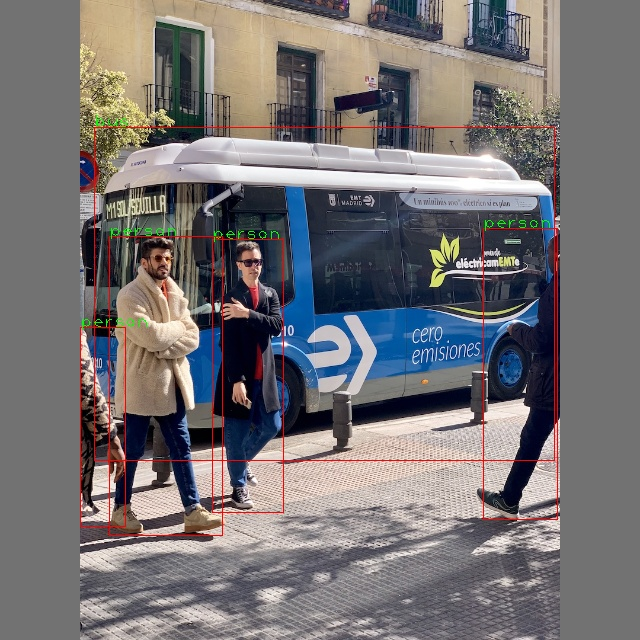
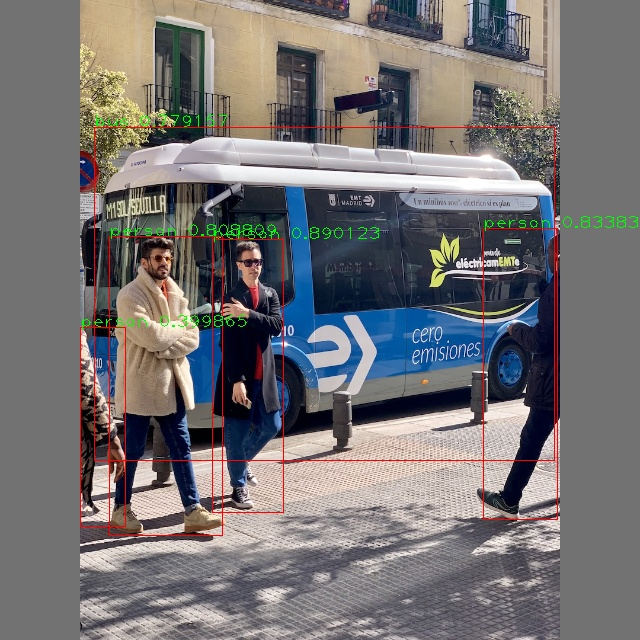
update test.cpp

diff --git a/src/test.cpp b/src/test.cpp
@@ -1,9 +1,74 @@
 #include <opencv2/imgproc.hpp>
 #include <opencv2/opencv.hpp>
+#include <opencv2/dnn.hpp>
 using namespace cv;
 using namespace std;
-int main(){
-    Mat img = imread("data/images/bus.jpg");
-    imshow("bus", img);
-    waitKey(0);
+
+Mat letterbox(Mat &img, Size new_shape, Scalar color, bool _auto, bool scaleFill, bool scaleup, int stride)
+{
+    float width = img.cols;
+    float height = img.rows;
+    float r = min(new_shape.width / width, new_shape.height / height);
+    if (!scaleup)
+        r = min(r, 1.0f);
+    int new_unpadW = int(round(width * r));
+    int new_unpadH = int(round(height * r));
+    int dw = new_shape.width - new_unpadW;
+    int dh = new_shape.height - new_unpadH;
+    if (_auto)
+    {
+        dw %= stride;
+        dh %= stride;
+    }
+    dw /= 2, dh /= 2;
+    Mat dst;
+    resize(img, dst, Size(new_unpadW, new_unpadH), 0, 0, INTER_LINEAR);
+    int top = int(round(dh - 0.1));
+    int bottom = int(round(dh + 0.1));
+    int left = int(round(dw - 0.1));
+    int right = int(round(dw + 0.1));
+    copyMakeBorder(dst, dst, top, bottom, left, right, BORDER_CONSTANT, color);
+    return dst;
+}
+
+int main()
+{
+    dnn::Net model = dnn::readNetFromONNX("/Users/mix/yolov5/yolov5s.onnx");
+    Mat img0 = imread("data/images/bus.jpg");
+    Mat img = letterbox(img0, Size(640, 640), Scalar(114, 114, 114), true, false, true, 32);
+    Mat blob;    
+    dnn::blobFromImage(img, blob, 1 / 255.0f, Size(img.cols, img.rows), Scalar(0, 0, 0), true, false);
+    model.setPreferableBackend(dnn::DNN_BACKEND_OPENCV);
+    model.setPreferableTarget(dnn::DNN_TARGET_CPU);
+    model.setInput(blob);
+    vector<string> outLayerNames = model.getUnconnectedOutLayersNames();
+    vector<Mat> result;
+    model.forward(result, outLayerNames);
+
+    Mat out = Mat(result[0].size[1], result[0].size[2], CV_32F, result[0].ptr<float>());
+    vector<Rect> boxes;
+    vector<int> indices;
+    vector<float> scores;
+    for (int r = 0; r < out.size[0]; r++)
+    {
+        float cx = out.at<float>(r, 0);
+        float cy = out.at<float>(r, 1);
+        float w = out.at<float>(r, 2);
+        float h = out.at<float>(r, 3);
+        float sc = out.at<float>(r, 4);
+        Mat confs = out.row(r).colRange(5,85);
+        confs*=sc;
+        double minV=0,maxV=0;
+        double *minI=&minV;
+        double *maxI=&maxV;
+        minMaxIdx(confs,minI,maxI);
+        scores.push_back(maxV);
+        boxes.push_back(Rect(cx - w / 2, cy - h / 2, w, h));
+        indices.push_back(r);
+    }
+    dnn::NMSBoxes(boxes, scores, 0.25f, 0.45f, indices);
+    for (auto &ind : indices)
+    {
+        cout << indices[ind] << ":" << scores[ind] << endl;
+    }
 }

diff --git a/src/detector.cpp b/src/detector.cpp
@@ -62,18 +62,14 @@ void Detector::postProcess(Mat &img, Detection &detection)
         float w = out.at<float>(r, 2);
         float h = out.at<float>(r, 3);
         float sc = out.at<float>(r, 4);
-        scores.push_back(sc);
+        Mat confs = out.row(r).colRange(5,85);
+        confs*=sc;
+        double minV,maxV;
+        Point minI,maxI;
+        minMaxLoc(confs,&minV,&maxV,&minI,&maxI);
+        scores.push_back(maxV);
         boxes.push_back(Rect(cx-w/2, cy-h/2, w, h));
-        indices.push_back(r);
-        int maxI = 0;
-        float maxV = out.at<float>(r, 5);
-        for (int i = 1; i < 80; i++)
-        {
-            if(out.at<float>(r, i+5)>maxV){
-                maxV = out.at<float>(r, i + 5);
-                maxI = i;
-            }
-        }
+        indices.push_back(r);        
         classIndexList.push_back(maxI);
     }
 
@@ -95,7 +91,7 @@ void Detector::drawPredection(Mat &img, std::vector<Rect> &boxes, std::vector<fl
         string name = clsNames[i];
         rectangle(img, rect, Scalar(0, 0, 255));
         cout << name << endl;
-        putText(img, name, Point(rect.x, rect.y), FONT_HERSHEY_PLAIN, 1.2, Scalar(0, 255, 0));
+        putText(img, name+" "+to_string(score), Point(rect.x, rect.y), FONT_HERSHEY_PLAIN, 1.2, Scalar(0, 255, 0));
     }
     imshow("rst", img);
     waitKey(0);

diff --git a/main.cpp b/main.cpp
@@ -13,16 +13,16 @@ using namespace std;
 int main(int argc, char *argv[])
 {
     // 默认参数
-    string model_path = argv[1];
-    string img_path = argv[2];
-    //string img_path = "data/images/bus.jpg";
-    //string model_path = "/Users/mix/yolov5/yolov5s.onnx";
+    //string model_path = argv[1];
+    //string img_path = argv[2];
+    string img_path = "data/images/bus.jpg";
+    string model_path = "/Users/mix/yolov5/yolov5s.onnx";
     Config config = {0.25f, 0.45f, model_path, "data/coco.names"};
     cout<<"Load Model"<<endl;
     Detector detector(config);
     cout << "Read Image" << endl;
     Mat img = imread(img_path, IMREAD_COLOR);
-    auto detection = detector.detect(img);
+    Detection detection = detector.detect(img);
     detector.letterBoxImage(img);
     detector.postProcess(img,detection);
     imwrite("assets/output.jpg",img);
